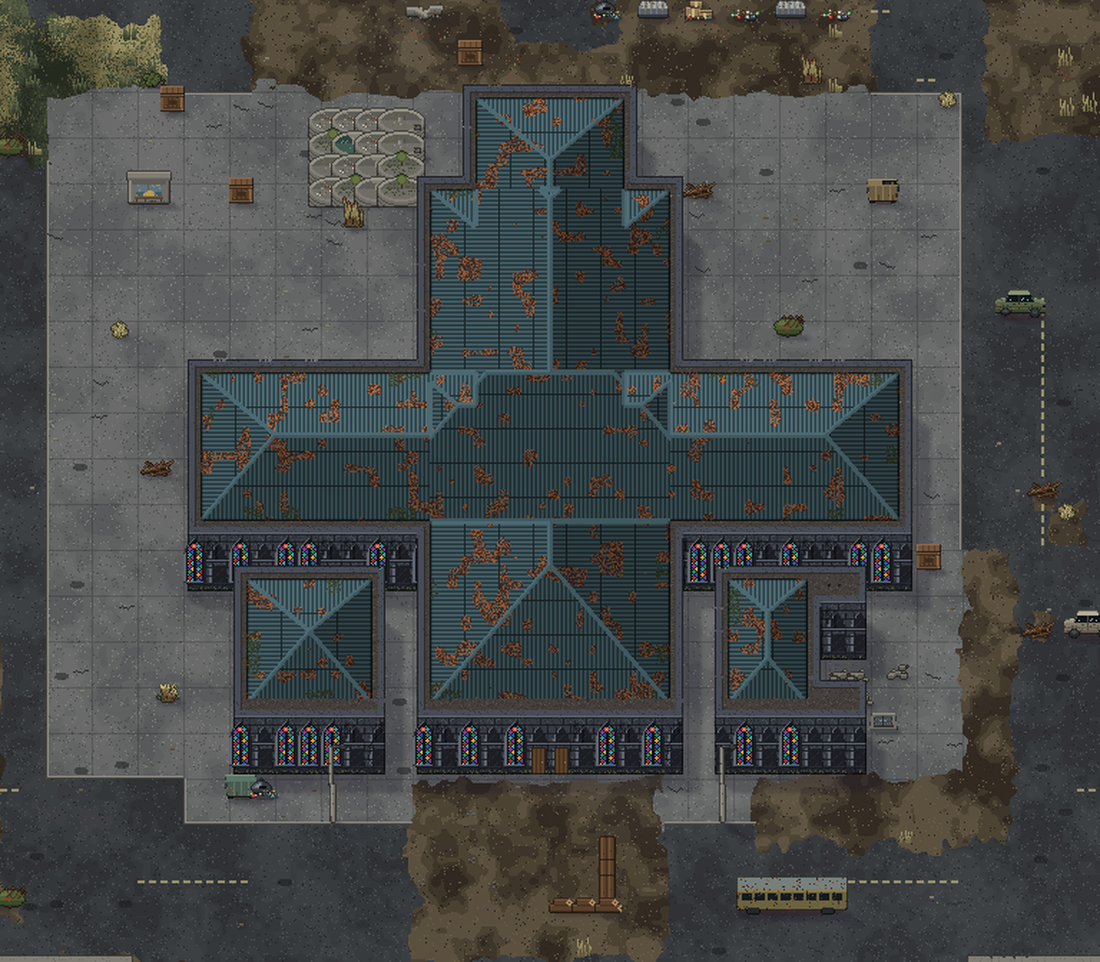
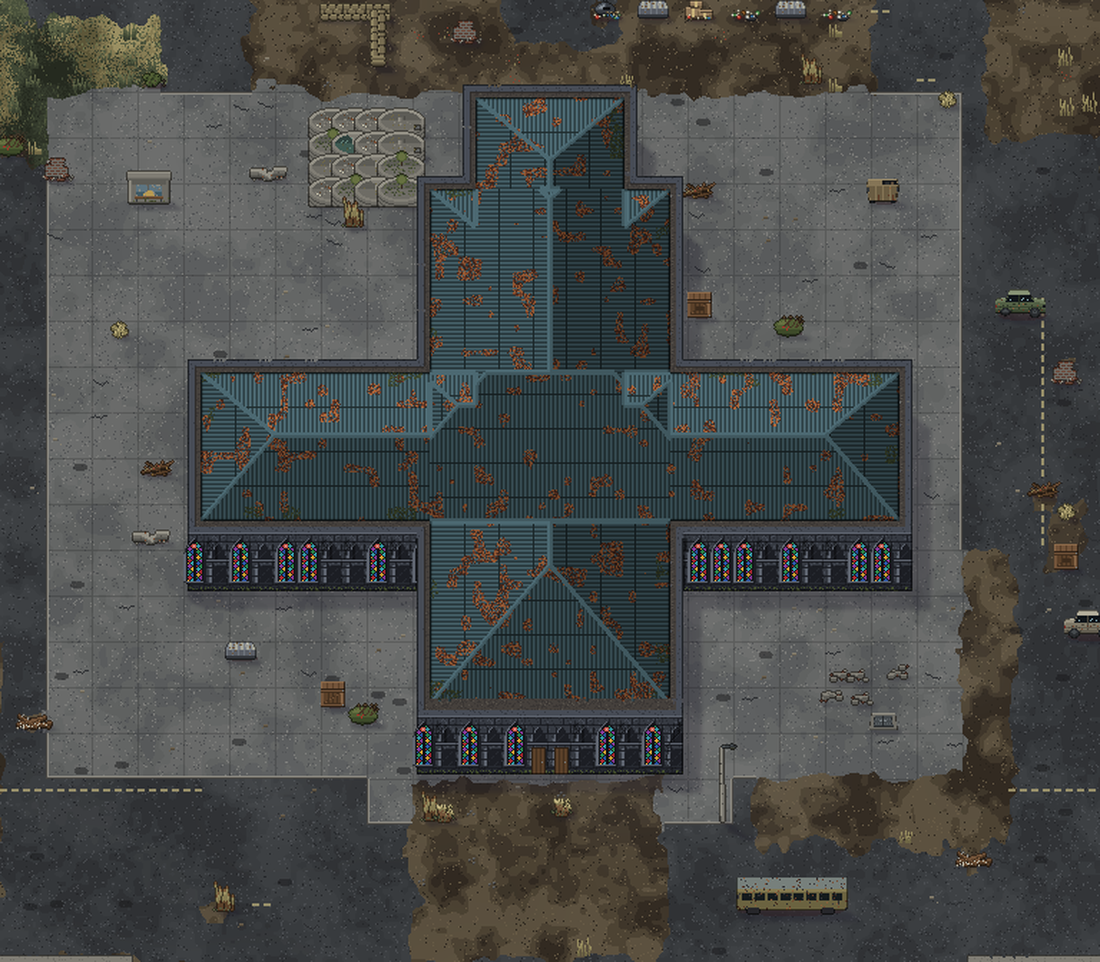
Door references (CC0 verified) and the cathedral without the two front towers
Claude-Session: https://claude.ai/code/session_01Jpd5tdDJTR7BVueAYV1KDM

diff --git a/Assets/Scripts/GameCore/TierMaps.cs b/Assets/Scripts/GameCore/TierMaps.cs
@@ -1398,7 +1398,7 @@ namespace GameCore
             c.Put(114, 124, HardCover, "busstop").Put(146, 124, HardCover, "dumpster").Put(118, 144, ScatterCover, "trash");
             c.Landmark("Central Plaza", 130, 123);
             // 2026-11-20 the Abandoned Cathedral (MISSION_CHOIR.md). Two builds, one switch: PaintedCathedral = true is the painted set-piece prop (ArtSource/world/props_cathedral_exterior.py); false is the little castle built from the
-            // gothic wall tiles (Yan: "can't we build a little castle shaped thing with the gothic wall tiles"): a cross-shaped nave and transept with an apse, two detached front towers with pyramid roofs, stained windows on the south faces.
+            // gothic wall tiles (Yan: "can't we build a little castle shaped thing with the gothic wall tiles"): a cross-shaped nave and transept with an apse, stained windows on the south faces (the two detached front towers were dropped: "not needed").
             if (PaintedCathedral)
             {
             // (the painted build) as ONE set-piece prop (ArtSource/world/props_cathedral_exterior.py: twin spires, a gabled front with a rose window, a steep slate nave roof, a transept, a crossing spire, an apse), because the roof system only draws boxes.
@@ -1413,9 +1413,7 @@ namespace GameCore
                 c.Rect(126, 126, 12, 24, Solid, 0, "gothic");                       // the nave (front on row 149)
                 c.Rect(116, 134, 32, 8, Solid, 0, "gothic");                        // the transept
                 c.Rect(128, 122, 8, 4, Solid, 0, "gothic");                         // the apse
-                c.Rect(118, 143, 7, 7, Solid, 0, "gothic"); c.Rect(139, 143, 7, 7, Solid, 0, "gothic");   // the two front towers, a gap of one tile either side of the nave
                 foreach (var wx in new[] { 128, 134 }) c.Put(wx, 149, Solid, "window");                  // stained windows either side of the doors
-                foreach (var wx in new[] { 121, 142 }) c.Put(wx, 149, Solid, "window");                  // one in each tower
                 foreach (var wx in new[] { 118, 121, 124, 139, 142, 145 }) c.Put(wx, 141, Solid, "window");   // the transept arms
                 c.Put(131, 149, Door).Put(132, 149, Door);
                 c.Landmark("The Cathedral", 131, 152).Exit("abandoned_cathedral", 131, 149);

diff --git a/ArtSource/external/SOURCES.md b/ArtSource/external/SOURCES.md
@@ -120,3 +120,17 @@ Found by web search, then the OpenGameArt pages were read with curl (the allowli
 | 16x16 1-bit Church Interior Tile Set (bigindie), VisuStella, KR Holy Saints, Pixel Gothic Pack | various | paid or pay-what-you-want | pews, statues, windows | not usable (licence) |
 | Medieval Church Interior (OpenGameArt) | n/a | CC0 | 3D models | not useful |
 Architecture facts for layout (text only, Lumen Learning / Wikipedia "Cathedral floorplan"): a Latin-cross plan, the nave and two aisles separated by an arcade of pillars, a bay is the square unit between pillars and the nave is usually two bays wide, then a gallery/triforium and clerestory above; medieval naves had no pews (a parish-church addition), so pews are an artistic choice here.
+
+## Door references (2026-11-20; Yan: "search for big double door sprites and references, also other types like lab doors, dungeon doors, double doors, a lot of doors" and "we need variety")
+OpenGameArt pages read with curl; images downloaded to `reference/doors/` (not the zips). All of these are drawing references first.
+| Pack | Author | Licence (read on the page) | What it gives | Class |
+|-|-|-|-|-|
+| 4 Important Looking Doors 128x128, https://opengameart.org/content/4-important-looking-doors-128x128 -> `reference/doors/four_important_doors/` | not shown (a Doom-mod door set) | **CC0** | four big sci-fi door fronts: hazard-striped base, indicator panels, pipes, riveted steel, an orange industrial one | reference (big lab/bunker doors) |
+| Dungeon Door, https://opengameart.org/content/dungeon-door -> `reference/doors/dungeon_door/` | not shown | **CC0** | a 60x60 studded oak door in a stone frame, and a version with a crossed chain bar | reference or `to-be-altered` (dungeon door) |
+| Warped Top-Down Tech Lab Extension, https://opengameart.org/node/174482 -> `reference/doors/tech_lab/` | n64guy | **CC0** | blue-steel lab door frames, vertical doors, panels, consoles (top-down, 16 px) | reference (lab doors) |
+| Warped Top-Down Tech Lab, https://opengameart.org/content/warped-top-down-tech-lab | NohbdyAhtall | **CC0** | the base lab tileset (`tileset-export.png` is in `reference/doors/tech_lab/`, 2160x1584) | reference |
+| Spooky Castle Tileset, https://opengameart.org/content/spooky-castle-tileset -> `reference/doors/spooky_castle/` | cemkalyoncu | **CC0** | stone arches with a portcullis, a barred gate and an arched oak door with a ring pull; a crenellated tower | reference (gothic/dungeon arches) |
+| Tiny Top Down Pack, https://opengameart.org/content/tiny-top-down-pack | tir2 (Screaming Brain Studios) | **CC0** | 100 generic 32x32 dungeon tiles | not downloaded |
+| Castle Door, https://opengameart.org/content/castle-door | William.Thompsonj | **CC-BY 3.0** (credit required) | castle door sheet | not downloaded, Yan decides |
+| Heavy Slamdoor, LPC Animated (Castle) Doors, Top-down Dungeon Building Set | various | CC-BY / CC-BY-SA / GPL / CC BY 4.0 | animated doors | not CC0, not used |
+| Sci-Fi dungeon doors (cosephgames.itch.io, CC0 per snippet) | cosephgames | not read: the host `cosephgames.itch.io` is not on the allowlist (only `itch.io`) | 16x16 vertical/horizontal doors, 1 or 2 tiles wide, 4 frames | lead; allow the host to read it |
